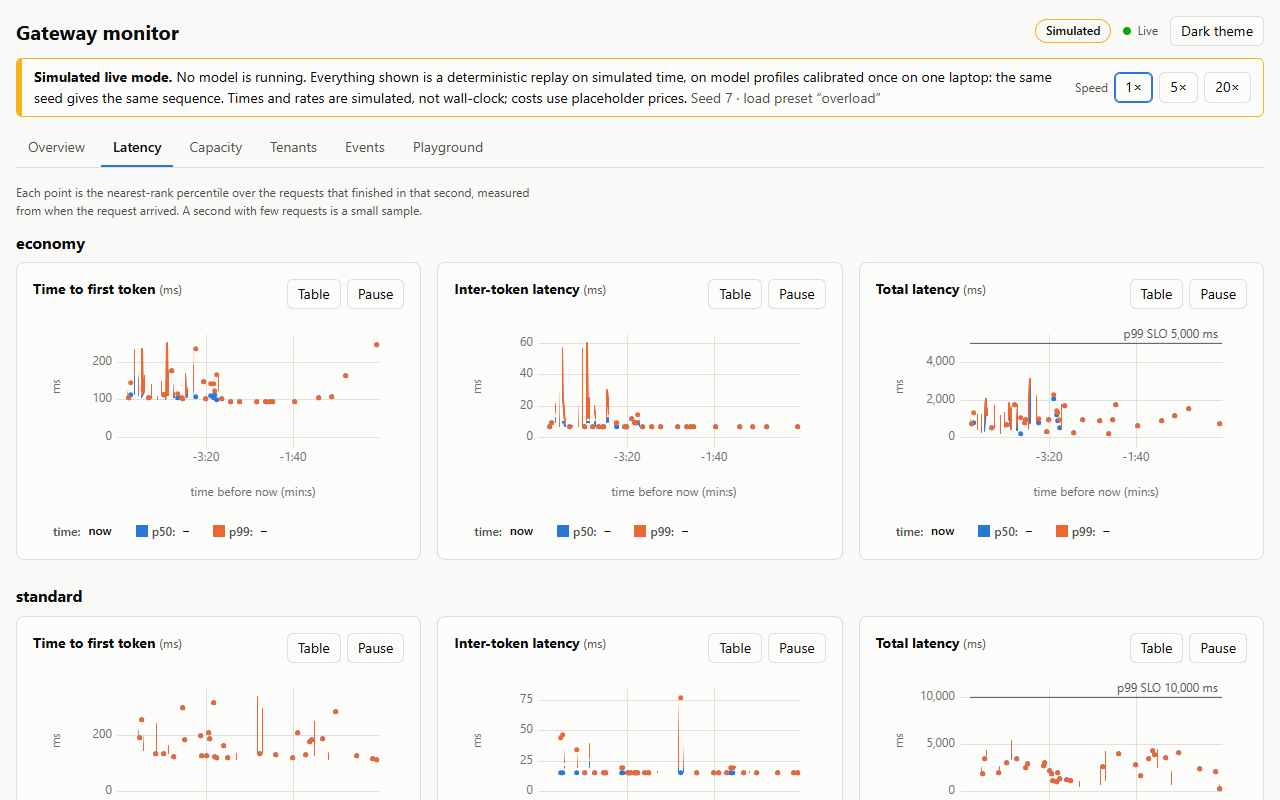
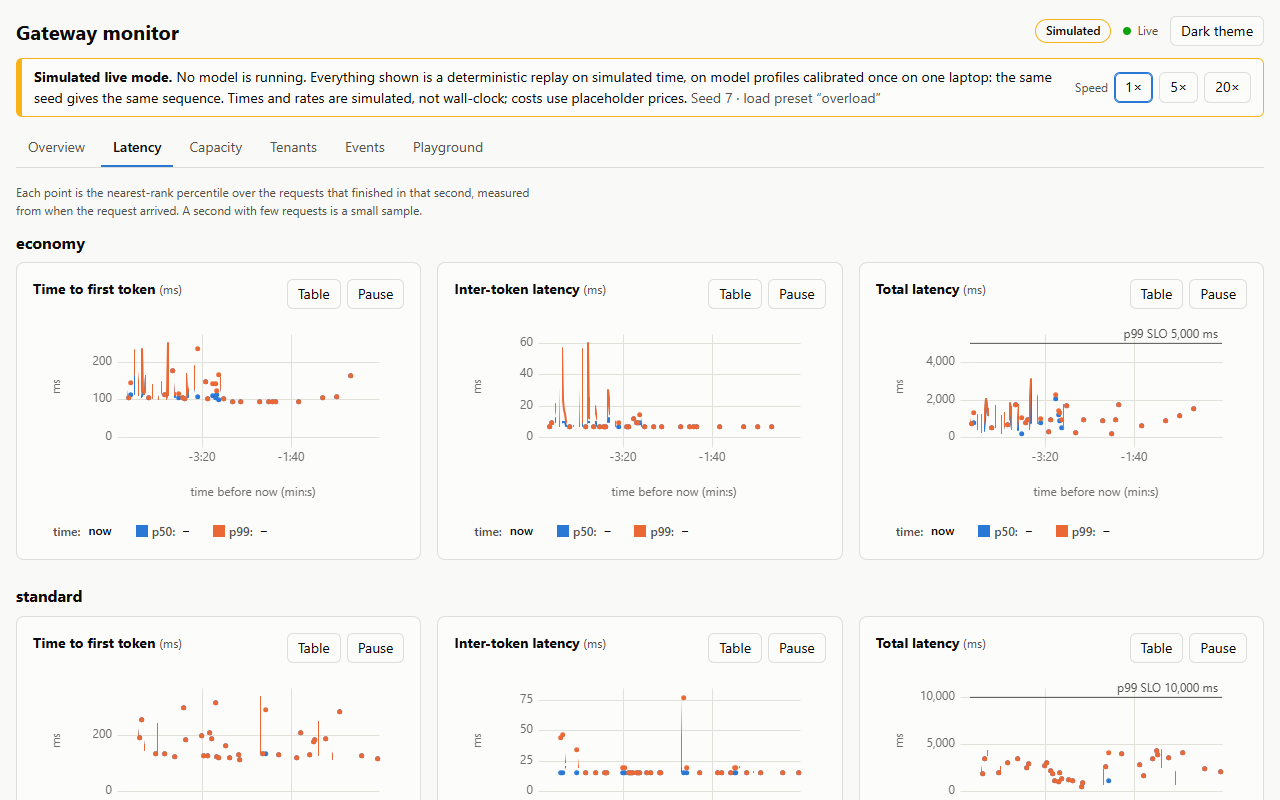
Add a silent dashboard tour GIF to the README; retake the pictures
scripts/capture_demo.py now also runs frontend/e2e/demo.tour.ts on a
gateway of its own (simulated live mode, steady preset, seed 7) and
assembles docs/img/demo.gif: every tab, one streamed request, then the
overload preset until premium is degraded; 36.4 s, banner in every
frame. The stills and the overload GIF were retaken for the new card.
All of it is simulated live mode, not a measurement.

diff --git a/frontend/e2e/demo.tour.ts b/frontend/e2e/demo.tour.ts
@@ -1,0 +1,111 @@
+// Takes the frames of docs/img/demo.gif: a tour of every tab of the dashboard, from the
+// gateway in simulated live mode (seed 7). A GIF has no sound.
+//
+// Everything in it is simulated: no model runs, and the times are simulated time. Every
+// frame is the top of the page, so the simulated-mode banner is in all of them. The seed
+// fixes what the gateway does; when each frame is taken is real time, so two runs give
+// tours that differ in detail.
+
+import { mkdirSync } from "node:fs";
+import path from "node:path";
+import { expect, test, type Page } from "@playwright/test";
+import { openTab, startPreset } from "./helpers";
+
+const FRAMES = path.resolve(import.meta.dirname, "results/tour");
+const FRAME_EVERY_MS = 400;
+
+let frame = 0;
+
+async function frames(page: Page, count: number): Promise<void> {
+  // The pointer is parked off the charts, so no hover readout is in the frames.
+  await page.mouse.move(0, 0);
+  for (let i = 0; i < count; i++) {
+    await page.screenshot({
+      path: path.join(FRAMES, `${String(frame).padStart(3, "0")}.png`),
+      clip: { x: 0, y: 0, width: 1280, height: 720 },
+    });
+    frame += 1;
+    await page.waitForTimeout(FRAME_EVERY_MS);
+  }
+}
+
+async function setSpeed(page: Page, speed: number): Promise<void> {
+  const button = page
+    .getByRole("status", { name: "Simulated live mode" })
+    .getByRole("button", { name: `${speed}×` });
+  await button.click();
+  await expect(button).toHaveAttribute("aria-pressed", "true");
+}
+
+test("capture the dashboard tour", async ({ page }) => {
+  mkdirSync(FRAMES, { recursive: true });
+  await page.goto("/dashboard/");
+  await expect(page.getByRole("article")).toHaveCount(3);
+  // Let the steady load put some history on the charts first.
+  await setSpeed(page, 20);
+  await expect(page.getByRole("article", { name: "economy" })).not.toContainText(
+    "no request finished",
+  );
+  await page.waitForTimeout(3000);
+  await setSpeed(page, 5);
+
+  // 1. The Overview under steady load, then its latency charts.
+  await openTab(page, "Overview");
+  await frames(page, 10);
+  await openTab(page, "Latency");
+  await expect(page.locator("canvas").first()).toBeVisible();
+  await frames(page, 8);
+
+  // 2. One streamed request from the Playground, at real time so the tokens can be seen
+  //    arriving.
+  await openTab(page, "Playground");
+  await setSpeed(page, 1);
+  const form = page.locator("form.request-form");
+  // By the start of the label's text: "Model" is also one of the choices of "Choose by".
+  await form
+    .locator("label", { hasText: /^Tenant/ })
+    .locator("select")
+    .selectOption("acme");
+  await form
+    .locator("label", { hasText: /^Model/ })
+    .locator("select")
+    .selectOption("standard");
+  await form
+    .locator("label", { hasText: /^Max tokens/ })
+    .locator("input")
+    .fill("128");
+  await frames(page, 2);
+  await page.getByRole("button", { name: "Send" }).click();
+  await expect(page.getByRole("status", { name: "Request status" })).toContainText("Streaming");
+  await frames(page, 8);
+  await expect(page.getByRole("status", { name: "Request status" })).toContainText("Finished", {
+    timeout: 60_000,
+  });
+  await frames(page, 4);
+
+  // 3. The overload preset, started from the Playground, and the Overview as it takes hold.
+  await startPreset(page, "overload");
+  await frames(page, 3);
+  await setSpeed(page, 20);
+  await openTab(page, "Overview");
+  await frames(page, 26);
+
+  // 4. Capacity and Events once premium has been marked degraded.
+  await openTab(page, "Events");
+  await page.getByLabel("Type").selectOption("state_change");
+  await expect(
+    page.getByRole("list", { name: "Events" }).getByRole("listitem").first(),
+  ).toContainText("premium is degraded", { timeout: 60_000 });
+  await page.getByLabel("Type").selectOption("");
+  await openTab(page, "Capacity");
+  await expect(page.locator("canvas").first()).toBeVisible();
+  await frames(page, 8);
+  await openTab(page, "Events");
+  await frames(page, 8);
+
+  // 5. What each tenant used, and the Overview again.
+  await openTab(page, "Tenants");
+  await frames(page, 6);
+  await openTab(page, "Overview");
+  await frames(page, 8);
+});

diff --git a/frontend/playwright.tour.config.ts b/frontend/playwright.tour.config.ts
@@ -1,0 +1,35 @@
+import { defineConfig } from "@playwright/test";
+import base from "./playwright.config";
+
+// Not a test run: takes the frames of the dashboard tour, docs/img/demo.gif, on a gateway
+// of its own, so the tour starts from the same calm state every time and does not change
+// what the stills in playwright.capture.config.ts see. Run it through
+// `uv run python scripts/capture_demo.py`, which also assembles the GIF.
+
+const PORT = 8178;
+
+export default defineConfig({
+  ...base,
+  testMatch: "*.tour.ts",
+  timeout: 180_000,
+  use: {
+    ...base.use,
+    baseURL: `http://127.0.0.1:${PORT}`,
+    colorScheme: "light",
+    viewport: { width: 1280, height: 720 },
+    trace: "off",
+  },
+  webServer: {
+    command: `uv run uvicorn gateway.app:create_default_app --factory --port ${PORT} --log-level warning`,
+    cwd: "..",
+    env: {
+      GATEWAY_SIMULATED_LIVE: "1",
+      GATEWAY_SIM_SPEED: "5",
+      GATEWAY_SIM_PRESET: "steady",
+      GATEWAY_SEED: "7",
+    },
+    url: `http://127.0.0.1:${PORT}/healthz`,
+    reuseExistingServer: false,
+    timeout: 60_000,
+  },
+});

diff --git a/scripts/capture_demo.py b/scripts/capture_demo.py
@@ -1,10 +1,13 @@
-"""Retake the dashboard pictures in docs/img: six screenshots and one GIF.
+"""Retake the dashboard pictures in docs/img: six screenshots and two GIFs.
 
     uv run python scripts/capture_demo.py
 
 Builds the dashboard, starts the gateway in simulated live mode (seed 7), drives the pages
-with Playwright (``frontend/e2e/demo.capture.ts``) and assembles the GIF from the frames it
-saved. Needs Node 20 and a Chromium for Playwright: either ``npx playwright install
+with Playwright (``frontend/e2e/demo.capture.ts``) and assembles the overload GIF from the
+frames it saved. Then starts a second gateway, takes the frames of a tour of every tab
+(``frontend/e2e/demo.tour.ts``) and assembles ``docs/img/demo.gif``. A GIF has no sound.
+
+Needs Node 20 and a Chromium for Playwright: either ``npx playwright install
 chromium`` in ``frontend/``, or ``PLAYWRIGHT_CHANNEL=chrome`` to use an installed Chrome.
 
 Everything in the pictures is simulated; see docs/18-demo.md.
@@ -23,6 +26,8 @@ ROOT = Path(__file__).resolve().parent.parent
 FRONTEND = ROOT / "frontend"
 FRAMES = FRONTEND / "e2e" / "results" / "frames"
 GIF = ROOT / "docs" / "img" / "overload.gif"
+TOUR_FRAMES = FRONTEND / "e2e" / "results" / "tour"
+TOUR_GIF = ROOT / "docs" / "img" / "demo.gif"
 
 # Small enough to sit in a README: scaled down, a short palette, about 2.5 frames a second.
 GIF_WIDTH = 960
@@ -53,17 +58,19 @@ def main() -> int:
     if npm is None:
         print("npm was not found; the dashboard needs Node 20.", file=sys.stderr)
         return 1
-    if FRAMES.exists():
-        shutil.rmtree(FRAMES)
-    captured = subprocess.run([npm, "run", "screenshots"], cwd=FRONTEND, check=False)
-    if captured.returncode != 0:
-        return captured.returncode
-    frames = sorted(FRAMES.glob("*.png"))
-    if not frames:
-        print(f"no frames were saved in {FRAMES}", file=sys.stderr)
-        return 1
-    assemble_gif(frames, GIF)
-    print(f"wrote {GIF.relative_to(ROOT)} from {len(frames)} frames, {GIF.stat().st_size:,} bytes")
+    for script, folder, gif in (("screenshots", FRAMES, GIF), ("tour", TOUR_FRAMES, TOUR_GIF)):
+        if folder.exists():
+            shutil.rmtree(folder)
+        captured = subprocess.run([npm, "run", script], cwd=FRONTEND, check=False)
+        if captured.returncode != 0:
+            return captured.returncode
+        frames = sorted(folder.glob("*.png"))
+        if not frames:
+            print(f"no frames were saved in {folder}", file=sys.stderr)
+            return 1
+        assemble_gif(frames, gif)
+        size = gif.stat().st_size
+        print(f"wrote {gif.relative_to(ROOT)} from {len(frames)} frames, {size:,} bytes")
     return 0
 
 

diff --git a/README.md b/README.md
@@ -56,7 +56,11 @@ docker compose up --build
 
 Then open <http://localhost:8000/dashboard/>.
 
-![The dashboard's Overview while the overload preset takes hold](docs/img/overload.gif)
+![A tour of the dashboard in simulated live mode: the Overview and Latency tabs under steady load, one request streamed from the Playground, then the overload preset taking hold, with the Overview, Capacity, Events and Tenants tabs](docs/img/demo.gif)
+
+*A silent tour of every tab, about 36 seconds: steady load, one streamed request, then the
+`overload` preset until premium and standard are marked degraded and requests move to
+cheaper models. Simulated, not a measurement.*
 
 **This is simulated live mode. No model is running, and nothing in these pictures is a
 measurement.** The gateway replays a seeded load on simulated time, on the calibrated model
@@ -66,18 +70,22 @@ dashboard can be watched working with nothing else installed; the same seed give
 sequence of events on any machine
 ([docs/17](docs/17-playground-load-replay.md), [docs/18](docs/18-demo.md)).
 
-In the GIF the `overload` preset sends the premium model about three times what it can
-serve: its batch fills at 4, its queue grows, and its p99 passes the SLO. Later, once
-enough slow requests have finished, it is marked degraded and requests that allow it are
-served by the standard model; the Events picture below shows that.
+![The dashboard's Overview while the overload preset takes hold](docs/img/overload.gif)
+
+In this GIF the `overload` preset sends the premium model about three times what it can
+serve: its batch fills at 4, its queue grows, and its p99 passes the SLO. It is not marked
+degraded yet, and the card says why: too few requests have finished in the SLO window to
+judge. Later it is, and requests that allow it are served by the standard model; the tour
+above and the Events picture below show that.
 
 | | |
 |---|---|
 | ![Capacity tab](docs/img/capacity.png) Queue, batch, KV and cache for every model through the same overload; premium is at the bottom | ![Events tab](docs/img/events.png) Every downgrade, refusal and state change, as it happens |
 | ![Latency tab](docs/img/latency.png) p50 and p99 per second, with the SLO where it is in range | ![Playground tab](docs/img/playground.png) One streamed request, token by token, and the load controls |
 
-The pictures were taken with `uv run python scripts/capture_demo.py`, seed 7, on the tree
-of the commit that retook them for the calibrated profiles (parent commit `38bbb94`).
+The pictures and both GIFs were taken with `uv run python scripts/capture_demo.py`, seed
+7, with `PLAYWRIGHT_CHANNEL=chrome`, on the tree of the commit that added the tour (parent
+commit `879ee2f`).
 
 **Docker has not been run for this project**: the development machine does not have it
 ([Limitations](#limitations)). What was run is the same thing without it, which needs

diff --git a/docs/18-demo.md b/docs/18-demo.md
@@ -98,15 +98,26 @@ uv run python scripts/capture_demo.py     # add PLAYWRIGHT_CHANNEL=chrome to use
 It runs `frontend/e2e/demo.capture.ts` against the same simulated gateway (seed 7) and
 writes `docs/img/`: `overview.png`, `latency.png`, `capacity.png`, `tenants.png`,
 `events.png`, `playground.png`, and `overload.gif`, thirty frames of the Overview at speed 5
-while the `overload` preset takes hold. The GIF is assembled with Pillow, scaled to 960
+while the `overload` preset takes hold. The GIFs are assembled with Pillow, scaled to 960
 pixels wide with 64 colours.
+
+It then runs `frontend/e2e/demo.tour.ts` (`npm run tour`, `playwright.tour.config.ts`)
+against a second gateway of its own, on port 8178 in simulated live mode with the `steady`
+preset and seed 7, and writes `docs/img/demo.gif`: a silent tour of every tab, 91 frames
+taken 400 ms apart (Pillow merges identical neighbours). Steady load on the Overview and
+Latency tabs at 5x; one request of up to 128 tokens to the standard model, streamed at 1x
+so the tokens can be seen arriving; then the `overload` preset at 20x until premium is
+marked degraded, through the Overview, Capacity, Events and Tenants tabs. Every frame is
+the top 1280 x 720 of the page, so the simulated-mode banner is in all of them. The tour
+has a gateway of its own so that it always starts from the same calm state and does not
+change what the stills see.
 
 - **The pictures are of simulated live mode and say so in their own banner.**
 - **A retake differs in detail.** The seed fixes what the gateway does; when each picture is
   taken is real time. Do not edit the pictures; retake them.
 - The ones in the repository were taken on the development machine, with
-  `PLAYWRIGHT_CHANNEL=chrome`, on the tree of the commit that retook them for the
-  calibrated profiles (parent commit `38bbb94`). The first set showed invented profiles and
+  `PLAYWRIGHT_CHANNEL=chrome`, on the tree of the commit that added the tour (parent
+  commit `879ee2f`). The first set showed invented profiles and
   was replaced (note 13).
 - **Every picture shows the simulated-mode banner.** The Capacity picture is the whole page
   for that reason, rather than scrolled down to the premium model.
